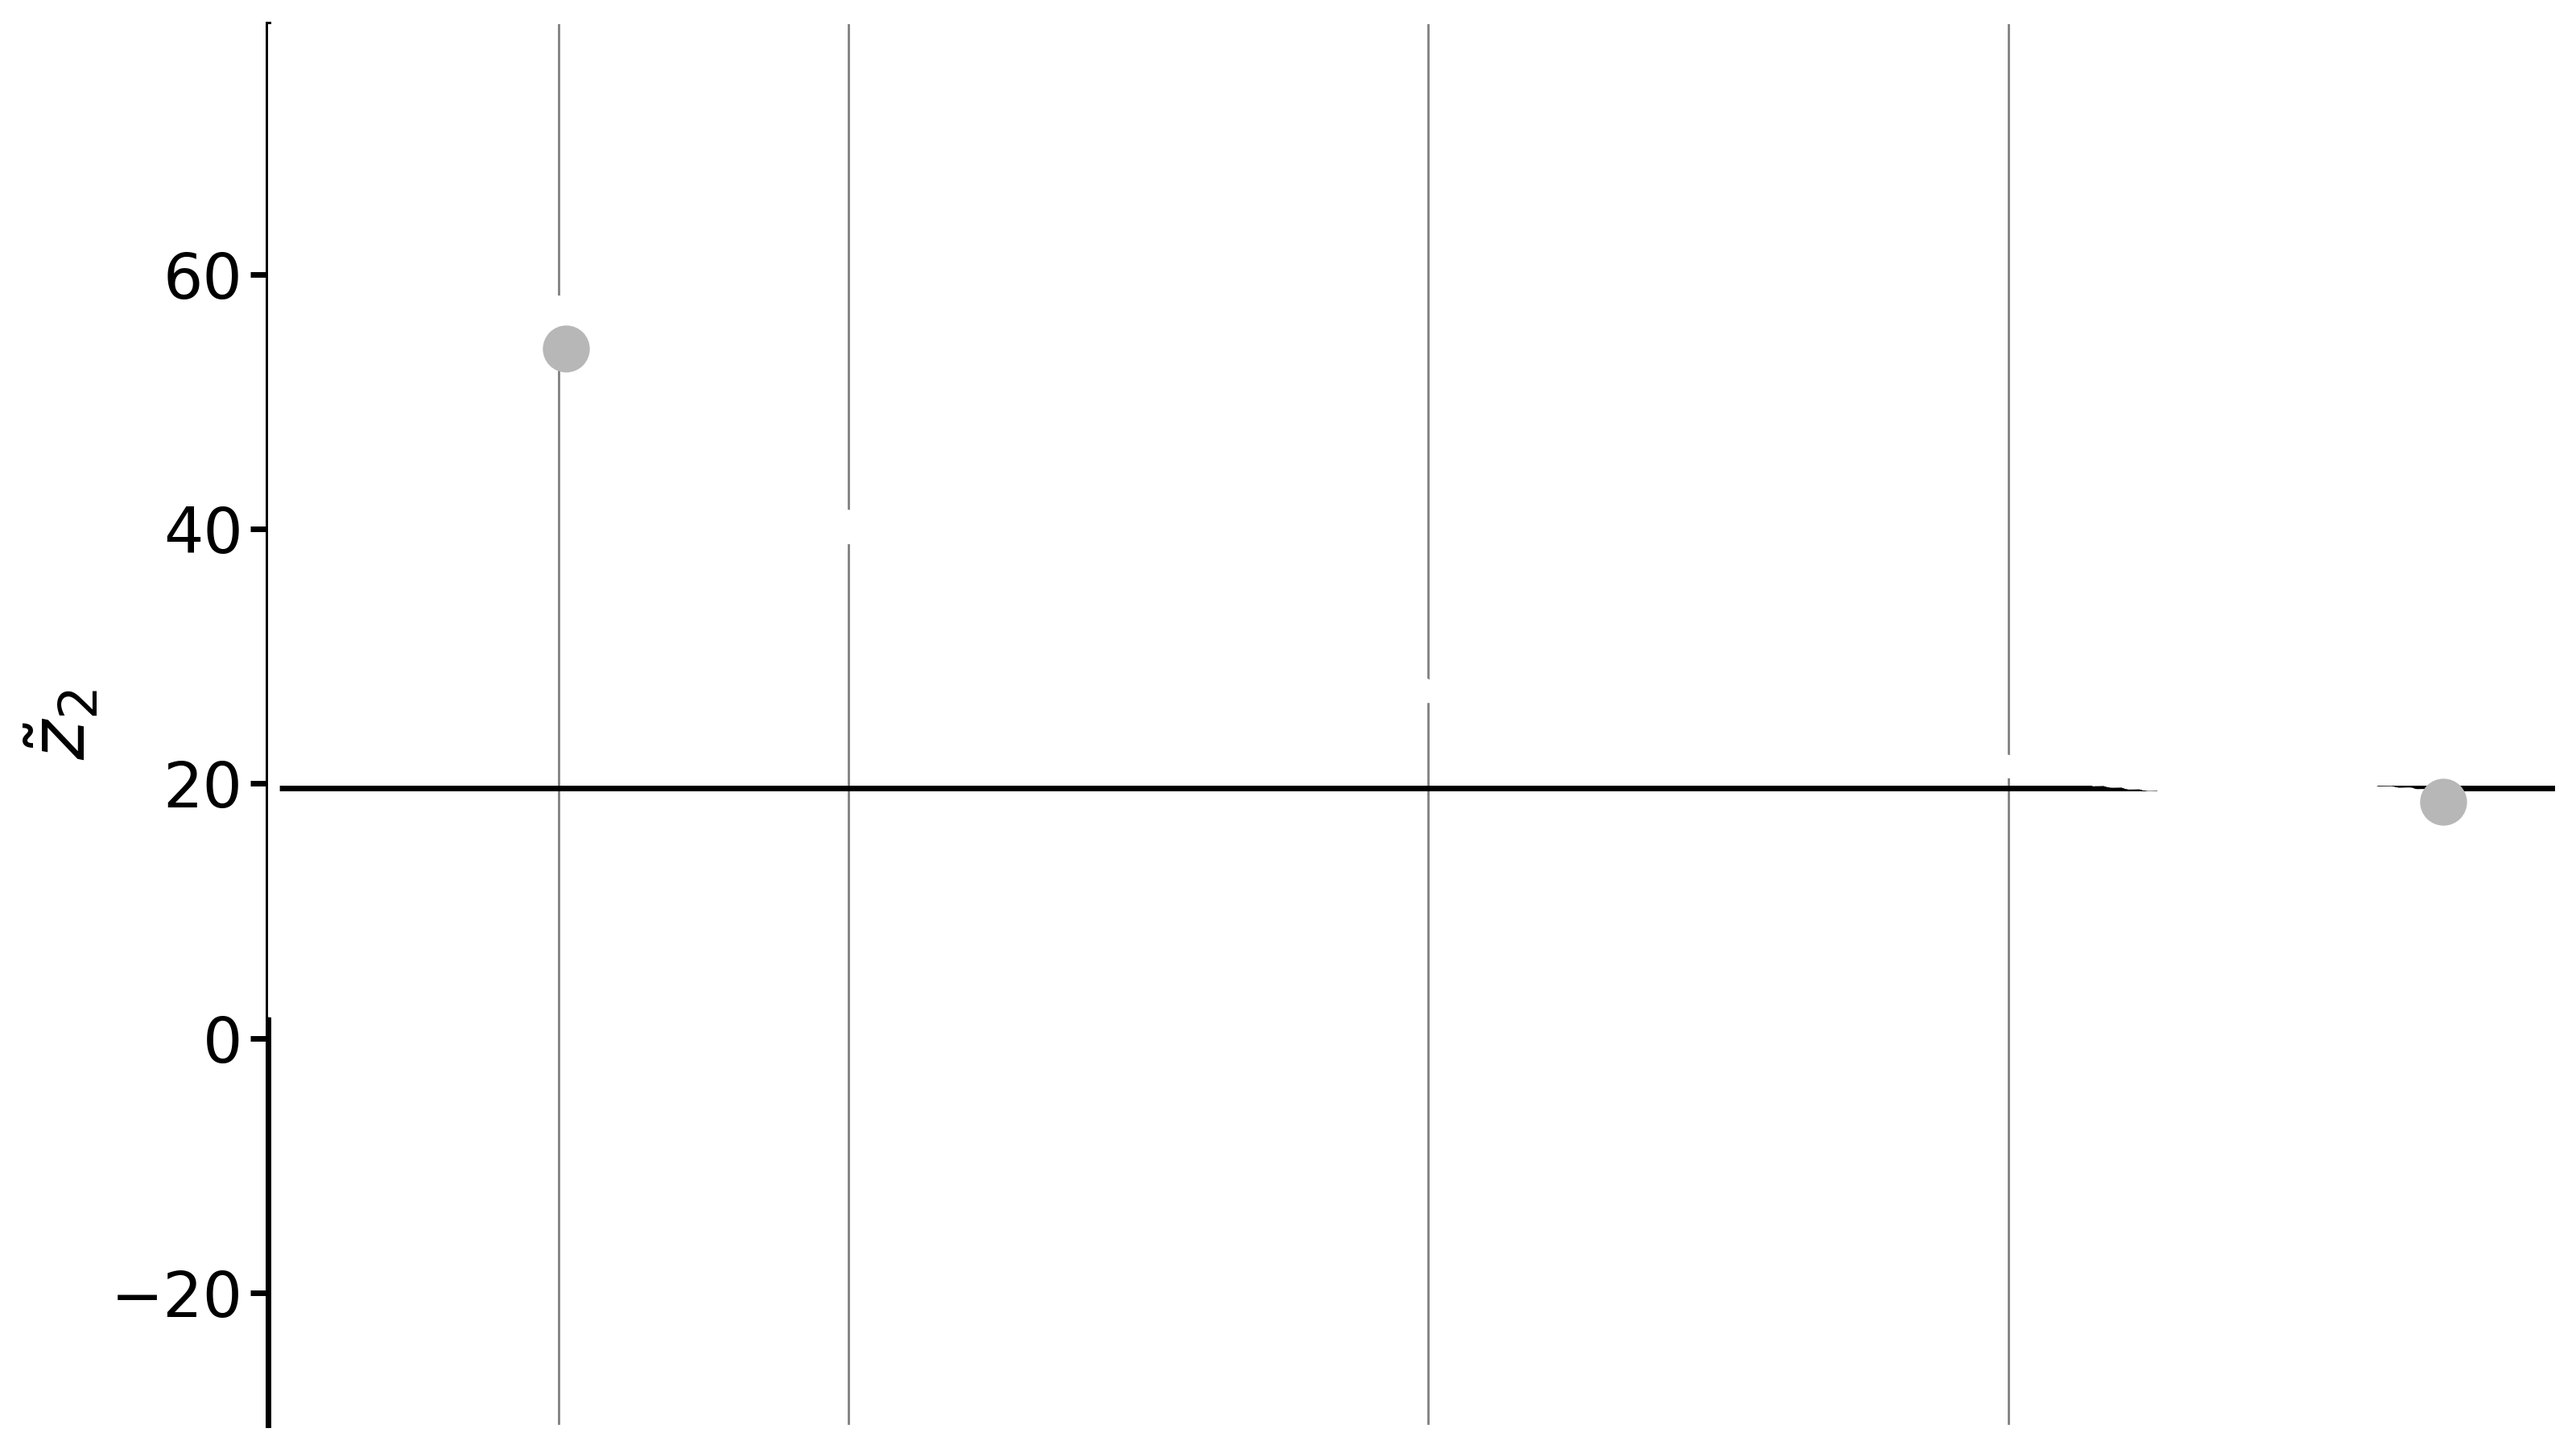
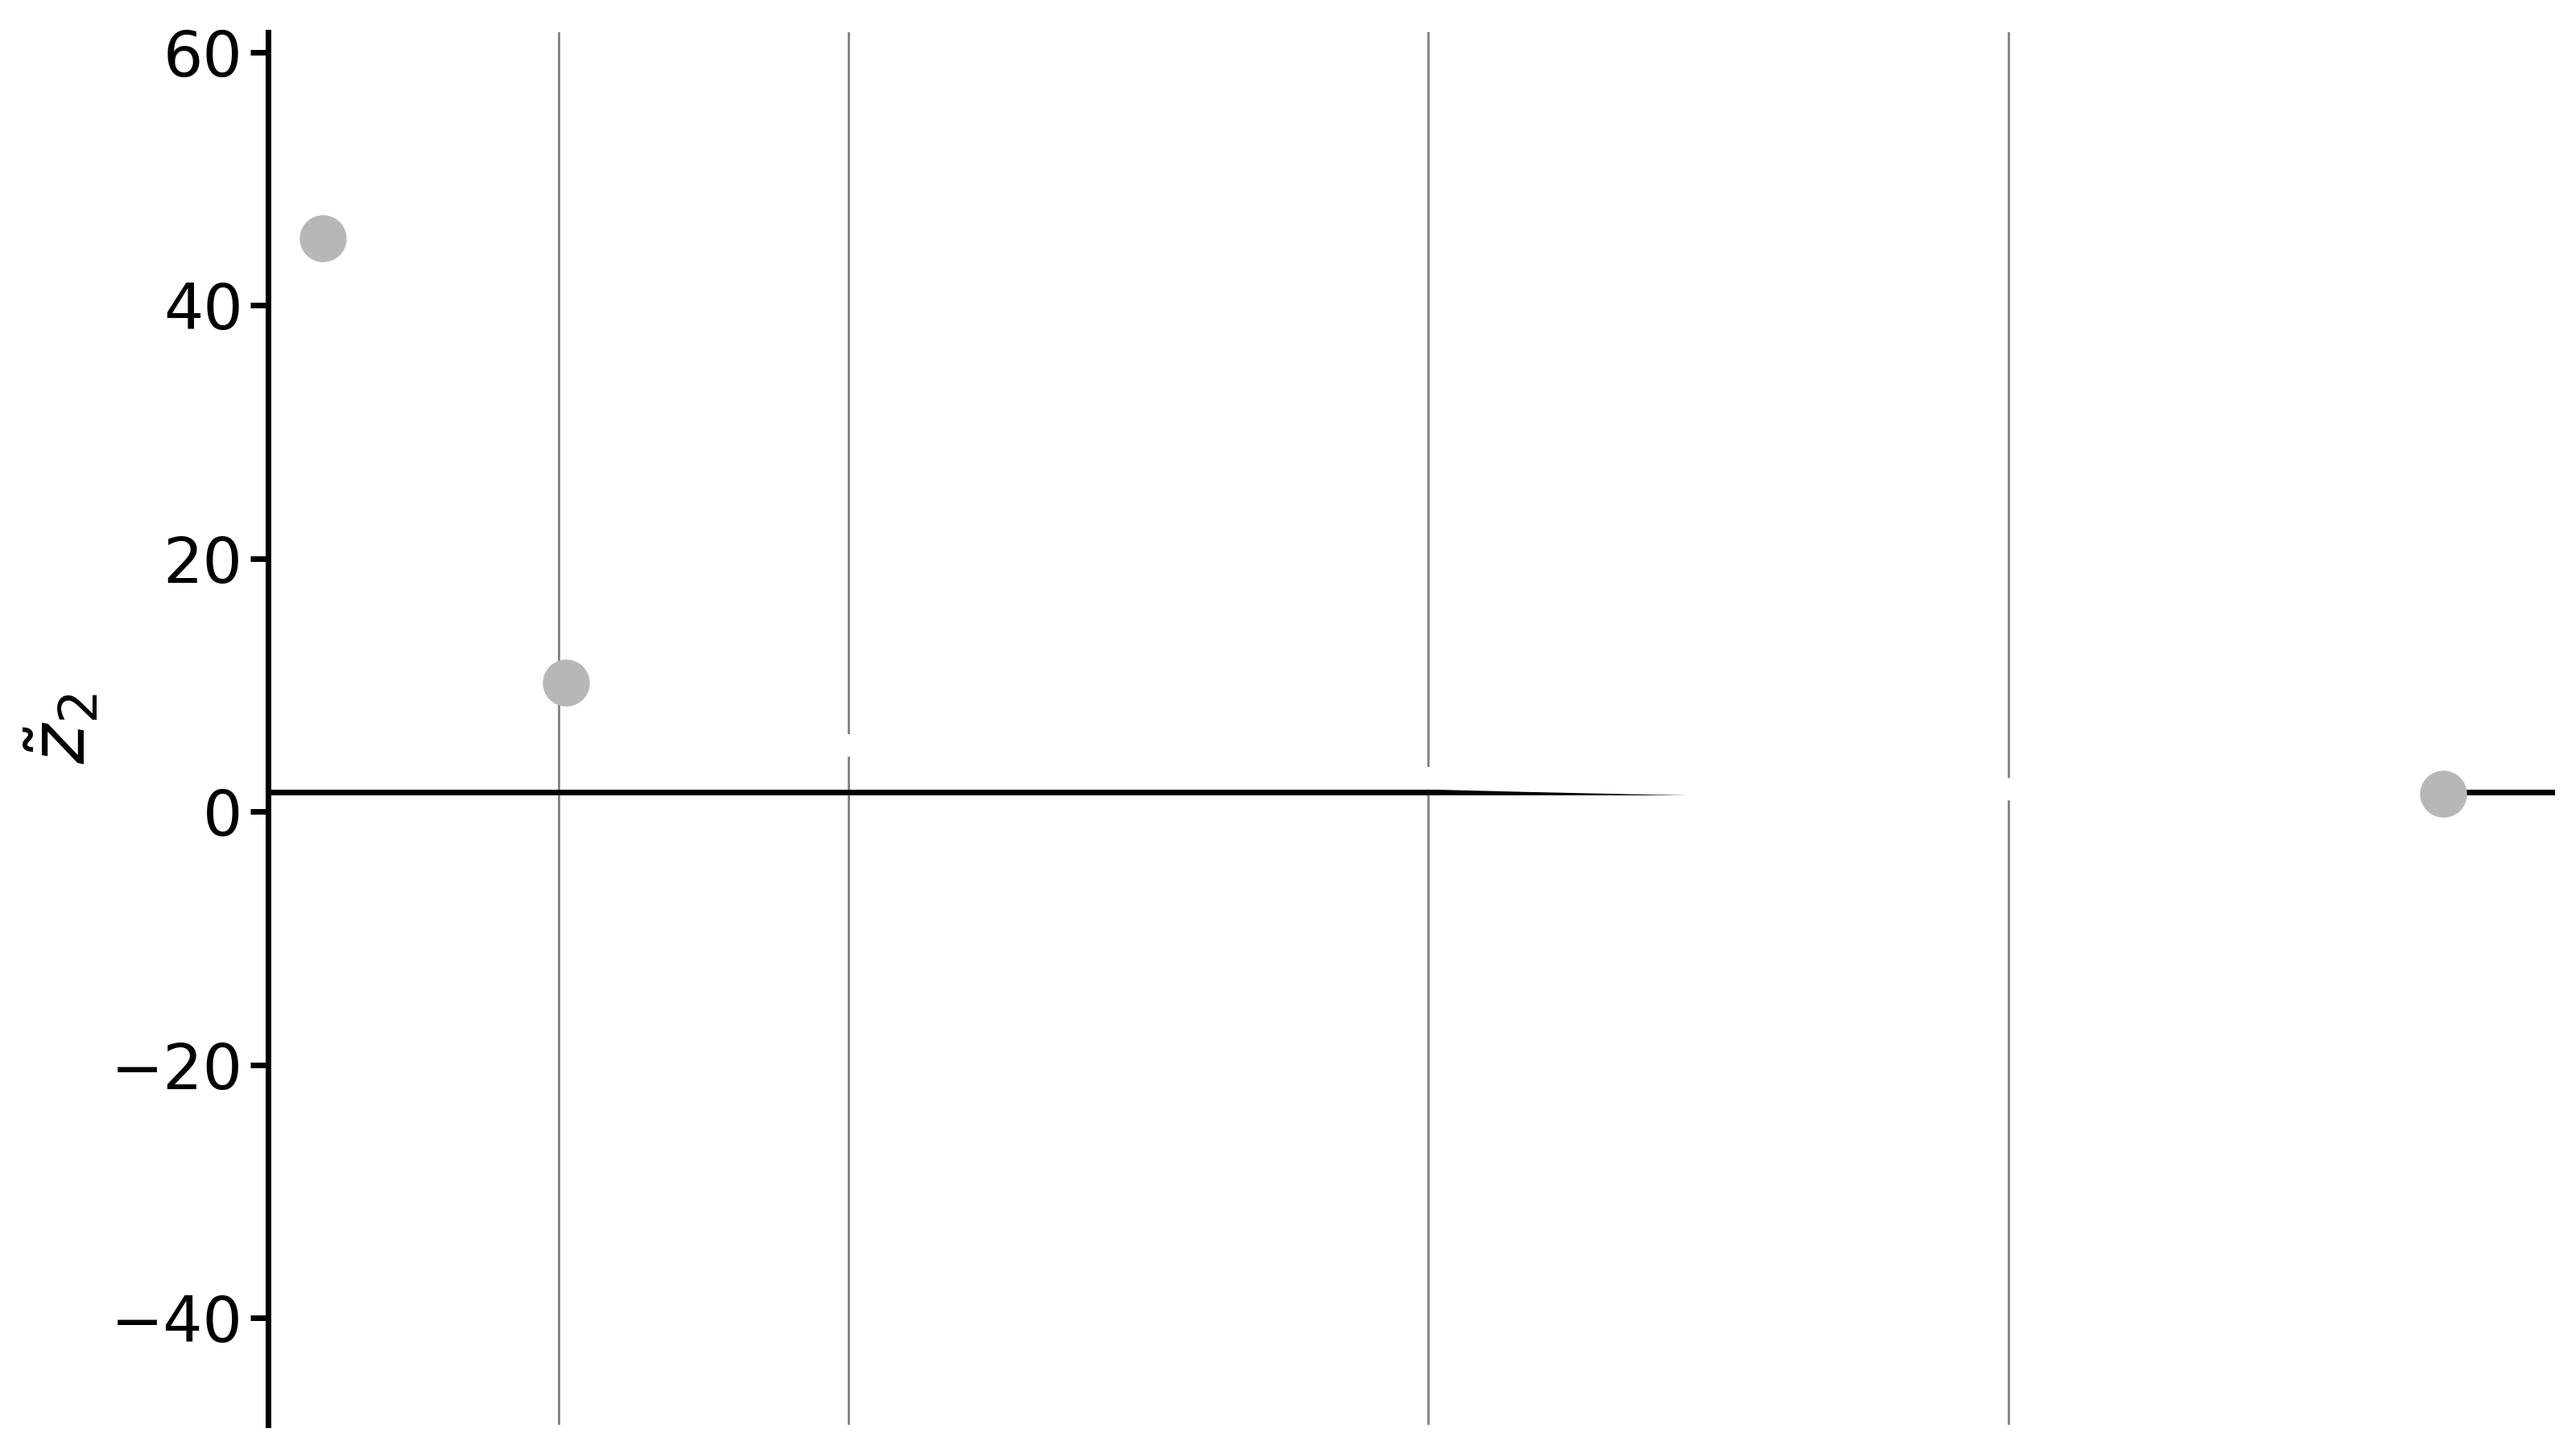
Trying to fix the w-mu convention

diff --git a/common/sandscapes_main.py b/common/sandscapes_main.py
@@ -38,7 +38,7 @@ def calculate_aggregate_signals(S, mute_cells):
 def calculate_gradient(X, XI, beta, gamma, mute_cells, w_mu):
     D_2 = calculate_distances(X, XI)
     S = calculate_signals(beta, D_2)
-    S_sum = calculate_aggregate_signals(S, mute_cells)*w_mu +gamma
+    S_sum = (calculate_aggregate_signals(S, mute_cells)+gamma)*w_mu
 
     coefs = S / (S_sum)[None, :] # (N-cells, N-patterns)
     N = coefs.sum(axis=-1)  + numerical_eps # (N-cells,)
@@ -51,7 +51,7 @@ def calculate_Es(X, XI, beta, gamma, mute_cells, w_mu):
     D_2 = calculate_distances(X, XI)
 
     # more numerically stable
-    log_S_sum_raw = jax.nn.logsumexp(-beta * D_2, b=mute_cells[:, None], axis=0) + jnp.log(w_mu) # log(ab) = log(a) + log(b)
+    log_S_sum_raw = jax.nn.logsumexp(-beta * D_2, b=mute_cells[:, None], axis=0) 
     log_S_sum = (1.0/w_mu) *  jnp.logaddexp(log_S_sum_raw, jnp.log(gamma))
     Es = log_S_sum.sum(axis=0)
     
@@ -62,7 +62,7 @@ def calculate_Es(X, XI, beta, gamma, mute_cells, w_mu):
 def calculate_grads_and_Es(X, XI, beta, gamma, mute_cells, w_mu):
     D_2 = calculate_distances(X, XI)
     S = calculate_signals(beta, D_2)
-    S_sum = calculate_aggregate_signals(S, mute_cells)*w_mu +gamma
+    S_sum = (calculate_aggregate_signals(S, mute_cells)+gamma)*w_mu
     
 
     coefs = S / (S_sum)[None, :] # (N-cells, N-patterns)
@@ -71,7 +71,7 @@ def calculate_grads_and_Es(X, XI, beta, gamma, mute_cells, w_mu):
 
 
     # more numerically stable
-    log_S_sum_raw = jax.nn.logsumexp(-beta * D_2, b=mute_cells[:, None], axis=0) + jnp.log(w_mu) # log(ab) = log(a) + log(b)
+    log_S_sum_raw = jax.nn.logsumexp(-beta * D_2, b=mute_cells[:, None], axis=0) 
     log_S_sum = (1.0/w_mu) *  jnp.logaddexp(log_S_sum_raw, jnp.log(gamma))
     Es = log_S_sum.sum(axis=0)
 

diff --git a/FigureCode/Fig4_wmu/B_simulate_triangle_growth.py b/FigureCode/Fig4_wmu/B_simulate_triangle_growth.py
@@ -26,7 +26,7 @@ def calculate_signals_t(X, XI, beta, gamma, mute_cells):
     S_sum = calculate_aggregate_signals(S, mute_cells) + gamma
     return S_sum
 
-calculate_signals_all_t = jax.vmap(calculate_signals_t, in_axes=(0, None, None, None, 0, None))
+calculate_signals_all_t = jax.vmap(calculate_signals_t, in_axes=(0, None, None, None, 0))
 
 xi_x = 1.0
 xi_y = 1.3
@@ -38,7 +38,7 @@ w_mu = jnp.asarray([600.0, 60.0, 1.0])
 
 gamma = jnp.asarray([800.0, 150.0, 1.0])*q + 1E-5
 
-gamma = gamma/w_mu
+gamma = gamma / w_mu
 
 beta = 1.5 
 K = 1000*10*4  # 4
@@ -85,7 +85,7 @@ for i in tqdm.tqdm(range(0, N_TIME_CHUNKS)):
     Xs_saves[i * time_chunk_size//dt: (i+1) * time_chunk_size//dt] = np.asarray(Xs_saves_[::dt], copy=True)
     Ss_saves[i * time_chunk_size//dt: (i+1) * time_chunk_size//dt] = np.asarray(calculate_signals_all_t(Xs_saves_[::dt], XIs,
                                                                                                         beta, gamma,
-                                                                                                        mute_cells_ts_chunk[::dt], w_mu),
+                                                                                                        mute_cells_ts_chunk[::dt]),
                                                                                 copy=True)
 Xs_saves.flush()
 
